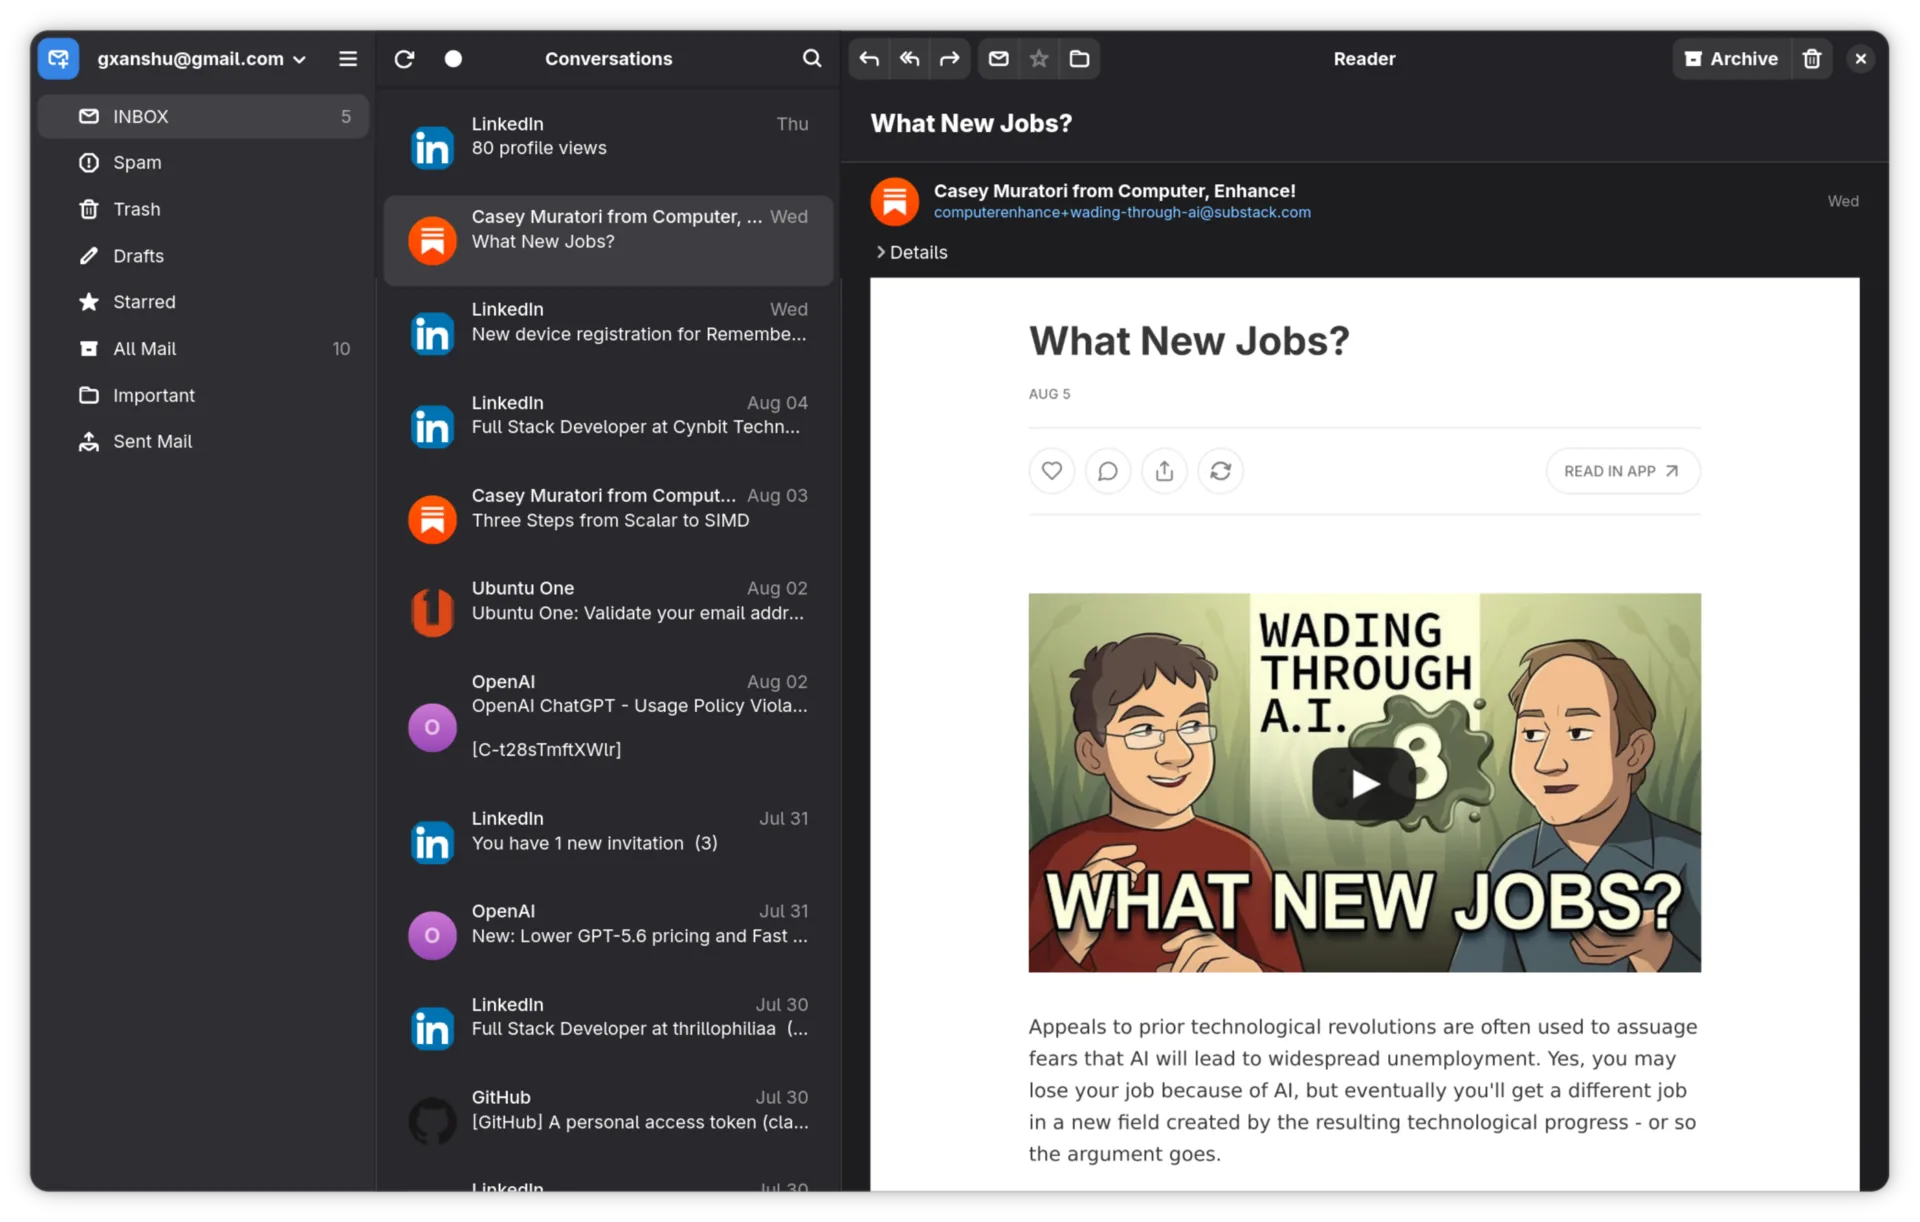
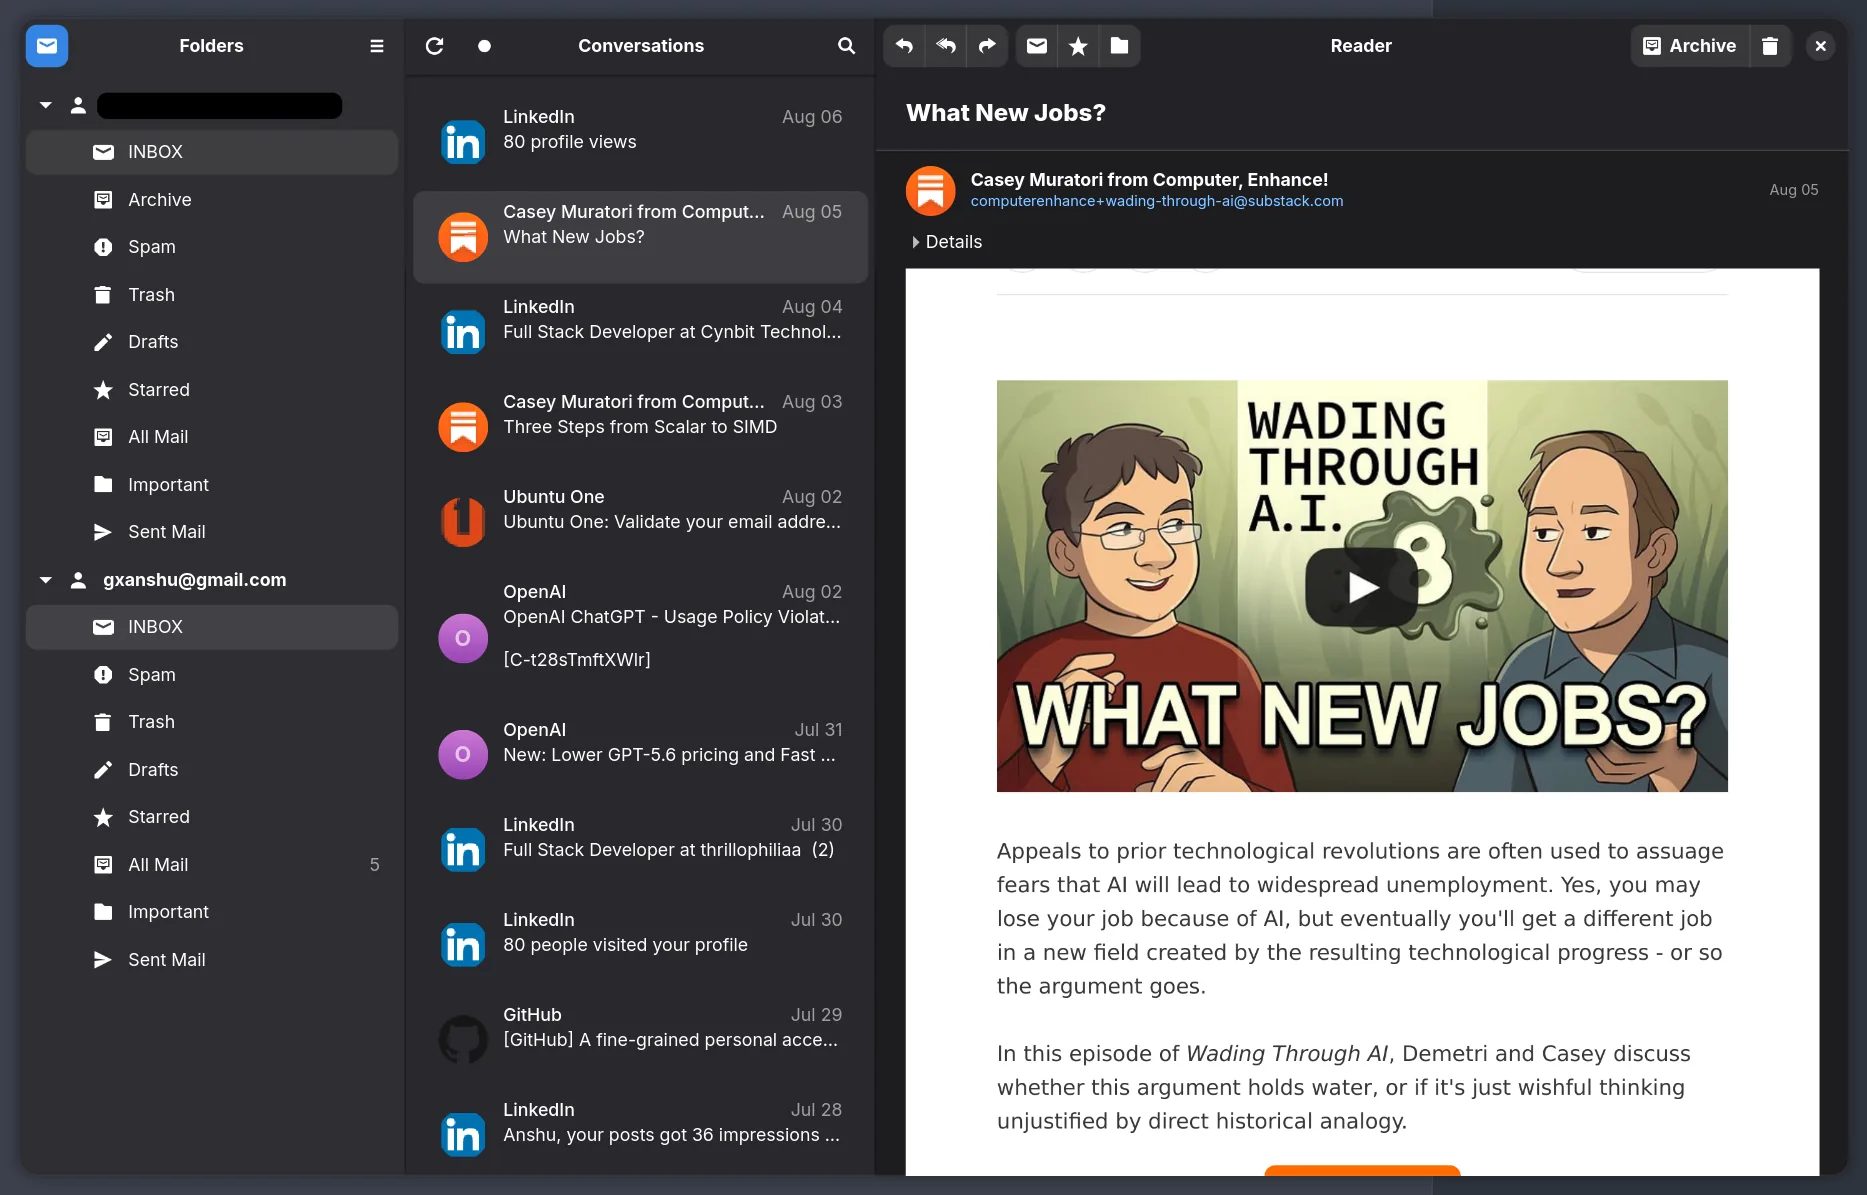
chore: update site

diff --git a/web/index.html b/web/index.html
@@ -5,12 +5,12 @@
 <meta name="viewport" content="width=device-width, initial-scale=1">
 
 <title>Postcard - a modern email client for GNOME</title>
-<meta name="description" content="Postcard is a modern email client for GNOME. GTK 4, libadwaita, IMAP/SMTP and GNOME Online Accounts, offline search, and a three-pane inbox. Install the Flatpak in one click.">
-<meta name="keywords" content="email client for GNOME, best email client for GNOME, GNOME mail app, GTK4 email client, libadwaita mail, Linux IMAP client, Flatpak email client">
+<meta name="description" content="Postcard is a modern email client for GNOME. GTK 4, libadwaita, IMAP/SMTP and GNOME Online Accounts, a unified inbox, offline search, and one click unsubscribe. Install the Flatpak in one click.">
+<meta name="keywords" content="email client for GNOME, best email client for GNOME, GNOME mail app, GTK4 email client, libadwaita mail, Linux IMAP client, Flatpak email client, unified inbox, one click unsubscribe">
 <link rel="canonical" href="https://postcard.gxanshu.in/">
 
 <meta property="og:title" content="Postcard — a modern email client for GNOME">
-<meta property="og:description" content="A native GNOME mail app on GTK 4 and libadwaita. Conversations, offline search, GNOME Online Accounts. Free and GPL-3.0.">
+<meta property="og:description" content="A native GNOME mail app on GTK 4 and libadwaita. A unified inbox, conversations, offline search, GNOME Online Accounts. Free and GPL-3.0.">
 <meta property="og:type" content="website">
 <meta property="og:url" content="https://postcard.gxanshu.in/">
 <meta property="og:image" content="https://postcard.gxanshu.in/img/og.png">
@@ -18,7 +18,7 @@
 <meta property="og:image:height" content="630">
 <meta name="twitter:card" content="summary_large_image">
 <meta name="twitter:title" content="Postcard — a modern email client for GNOME">
-<meta name="twitter:description" content="A native GNOME mail app on GTK 4 and libadwaita. Conversations, offline search, GNOME Online Accounts. Free and GPL-3.0.">
+<meta name="twitter:description" content="A native GNOME mail app on GTK 4 and libadwaita. A unified inbox, conversations, offline search, GNOME Online Accounts. Free and GPL-3.0.">
 <meta name="twitter:image" content="https://postcard.gxanshu.in/img/og.png">
 
 <link rel="icon" href="icon.png">
@@ -160,7 +160,7 @@ p{text-wrap:pretty;}
 .btn-block{display:block;width:100%;text-align:center;padding:13px 20px;border-radius:11px;}
 
 /* Hero */
-.hero{padding:76px 24px 0;}
+.hero{padding:96px 24px 0;}
 .hero-row{display:flex;flex-wrap:wrap;gap:48px;align-items:center;}
 .hero-copy{flex:1 1 480px;min-width:280px;}
 .hero h1{margin:0;font-size:clamp(36px,5.6vw,64px);line-height:1.03;letter-spacing:-.035em;text-wrap:balance;}
@@ -298,12 +298,13 @@ pre{
 }
 </style>
 
-<script type="application/ld+json">{"@context":"https://schema.org","@type":"SoftwareApplication","name":"Postcard","applicationCategory":"CommunicationApplication","applicationSubCategory":"Email Client","operatingSystem":"Linux, GNOME","softwareVersion":"__VERSION__","url":"https://postcard.gxanshu.in/","license":"https://www.gnu.org/licenses/gpl-3.0.html","description":"A modern email client for GNOME, built on GTK 4, libadwaita and Python. IMAP/SMTP, GNOME Online Accounts, offline full-text search.","downloadUrl":"https://github.com/gxanshu/postcard/releases/latest/download/postcard.flatpakref","screenshot":"https://postcard.gxanshu.in/img/og.png","author":{"@type":"Person","name":"Anshu","url":"https://github.com/gxanshu"},"offers":{"@type":"Offer","price":"0","priceCurrency":"USD"}}</script>
+<script type="application/ld+json">{"@context":"https://schema.org","@type":"SoftwareApplication","name":"Postcard","applicationCategory":"CommunicationApplication","applicationSubCategory":"Email Client","operatingSystem":"Linux, GNOME","softwareVersion":"__VERSION__","url":"https://postcard.gxanshu.in/","license":"https://www.gnu.org/licenses/gpl-3.0.html","description":"A modern email client for GNOME, built on GTK 4, libadwaita and Python. IMAP/SMTP, GNOME Online Accounts, a unified inbox, offline full-text search and one click unsubscribe.","downloadUrl":"https://github.com/gxanshu/postcard/releases/latest/download/postcard.flatpakref","screenshot":"https://postcard.gxanshu.in/img/og.png","author":{"@type":"Person","name":"Anshu","url":"https://github.com/gxanshu"},"offers":{"@type":"Offer","price":"0","priceCurrency":"USD"}}</script>
 <script type="application/ld+json">{"@context":"https://schema.org","@type":"FAQPage","mainEntity":[
 {"@type":"Question","name":"Is Postcard on Flathub?","acceptedAnswer":{"@type":"Answer","text":"No. It installs as a Flatpak from the project's GitHub releases, and flatpak update keeps it current like any other app."}},
 {"@type":"Question","name":"Does it work outside GNOME?","acceptedAnswer":{"@type":"Answer","text":"Yes. KDE, Xfce, anywhere Flatpak runs. GNOME just fits best, because Online Accounts, notifications, the keyring and the dark style all come for free."}},
 {"@type":"Question","name":"Which mail providers work?","acceptedAnswer":{"@type":"Answer","text":"Anything with IMAP and SMTP. Gmail, Fastmail, Zoho, Proton Mail Bridge, a mailbox on your own server. A Google account already in GNOME Settings is picked up without a password."}},
 {"@type":"Question","name":"What does it cost?","acceptedAnswer":{"@type":"Answer","text":"Nothing. GPL-3.0-or-later, no account to make, no telemetry. Your mail stays on your machine and your server."}},
+{"@type":"Question","name":"Can it start with my session?","acceptedAnswer":{"@type":"Answer","text":"Yes. Turn on Keep running in the background and Start at Login in Preferences. Postcard starts with no window, checks for mail on your sync interval and notifies you when something arrives."}},
 {"@type":"Question","name":"Is it ready for my main inbox?","acceptedAnswer":{"@type":"Answer","text":"I read my own mail in it every day, but it is still early. Keep your old client around for a week or two and file anything that breaks."}}]}</script>
 </head>
 
@@ -331,7 +332,6 @@ pre{
 <section class="hero wrap">
   <div class="hero-row">
     <div class="hero-copy">
-      <p class="eyebrow" style="margin-bottom:22px;">GTK 4 · libadwaita · Flatpak</p>
       <h1>A modern email client for GNOME.</h1>
       <p class="lede">Folders on the left, conversations in the middle, the message on the right. The layout you already know, rebuilt on GTK 4 and libadwaita. Nothing new to learn.</p>
       <div class="hero-actions">
@@ -348,15 +348,19 @@ pre{
 
 <section class="shot-band">
   <div class="inner">
-    <img class="shot" src="img/main-window.webp" width="1920" height="1222" fetchpriority="high" alt="Postcard on GNOME showing the three pane layout: folder list, conversation list and the HTML reader">
+    <img class="shot" src="img/main-window.webp" width="1867" height="1195" fetchpriority="high" alt="Postcard on GNOME showing every account in one sidebar, the conversation list and the HTML reader">
   </div>
 </section>
 
 <section id="features" class="features">
   <div class="inner">
-    <p class="eyebrow">What you get</p>
+    <p class="eyebrow">Features</p>
     <h2>Everything a mail client should do. Nothing it shouldn't.</h2>
     <div class="grid">
+      <div class="cell">
+        <h3>One inbox, every account</h3>
+        <p>All your addresses live in the same sidebar, folders sitting under the account they belong to. No switcher to remember, no going back and forth to find a mail.</p>
+      </div>
       <div class="cell">
         <h3>Threaded conversations</h3>
         <p>Replies stack into one thread. Archive, trash, move, and undo it when you got the wrong one.</p>
@@ -371,7 +375,7 @@ pre{
       </div>
       <div class="cell">
         <h3>Any IMAP or SMTP account</h3>
-        <p>Gmail, Fastmail, Proton Bridge, your own server. Add as many as you want. Passwords go in the system keyring.</p>
+        <p>Gmail, Fastmail, Proton Bridge, your own server. Add as many as you want. Host and port are filled in from your address for the providers people actually use, and passwords go in the system keyring.</p>
       </div>
       <div class="cell">
         <h3>Trackers stay blocked</h3>
@@ -379,7 +383,19 @@ pre{
       </div>
       <div class="cell">
         <h3>Drafts that don't vanish</h3>
-        <p>Reply, forward, Cc and Bcc, signatures, rich text. An Outbox holds the message until it really goes.</p>
+        <p>Reply, forward, Cc and Bcc, signatures, rich text. Pick which of your addresses it goes out from, let addresses you have written to before autocomplete, and an Outbox holds the message until it really goes.</p>
+      </div>
+      <div class="cell">
+        <h3>Leave a mailing list</h3>
+        <p>Lists get a banner with an Unsubscribe button. Where the list supports it, Postcard sends the request itself, after telling you which host it is about to talk to.</p>
+      </div>
+      <div class="cell">
+        <h3>Waits in the background</h3>
+        <p>Postcard can start hidden at login, check on your sync interval and notify you when mail lands. The desktop portal writes the autostart entry, so there is no file to edit.</p>
+      </div>
+      <div class="cell">
+        <h3>Acts like a desktop app</h3>
+        <p>A <span class="mono" style="font-size:13.5px;">mailto:</span> link opens the composer with the fields already filled. Attachments open in their default app, dates read like "2h ago", and senders get an avatar.</p>
       </div>
     </div>
   </div>
@@ -387,7 +403,7 @@ pre{
 
 <section id="look" class="night">
   <div class="inner">
-    <p class="eyebrow">A closer look</p>
+    <p class="eyebrow">Screenshots</p>
     <h2>Built to the GNOME HIG.</h2>
     <p class="lede">Adaptive layouts, boxed lists, real dialogs, and the system dark style everywhere. It fits your desktop because it is built the same way.</p>
     <div class="figs">
@@ -405,6 +421,10 @@ pre{
           <figcaption><strong>Preferences.</strong> A short list of switches. Notifications, remote images, sync interval.</figcaption>
         </figure>
       </div>
+      <figure style="flex:1 1 100%;">
+        <img src="img/mailing-list-unsubscribe.webp" width="1867" height="1188" loading="lazy" decoding="async" alt="The Postcard reader showing a mailing list banner with an Unsubscribe button, and the dialog naming the host the request goes to">
+        <figcaption><strong>One click unsubscribe.</strong> A newsletter gets a banner across the top of the message. Press the button and Postcard says which host it is about to ask, then asks for you.</figcaption>
+      </figure>
     </div>
   </div>
 </section>
@@ -460,7 +480,7 @@ pre{
 <section class="talk">
   <div class="inner split">
     <div class="split-main">
-      <p class="eyebrow">Straight talk</p>
+      <p class="eyebrow">Before you install</p>
       <h2>Written in the open, awkward parts included.</h2>
       <p>Postcard is under heavy development. It has bugs and rough edges. A bug report is the fastest way to get them fixed.</p>
       <p>AI tools help me type this code. That is written in the README rather than hidden away. The architecture, the review and the responsibility are mine, and every line was read before it shipped. Read the source and judge for yourself.</p>
@@ -504,6 +524,10 @@ pre{
       <div>
         <h3>What does it cost?</h3>
         <p>Nothing. GPL-3.0-or-later, no account to make, no telemetry. Your mail stays on your machine and your server.</p>
+      </div>
+      <div>
+        <h3>Can it start with my session?</h3>
+        <p>Yes. Turn on <strong>Keep running in the background</strong> and <strong>Start at Login</strong> in Preferences. Postcard comes up with no window, checks on your sync interval, and notifies you when mail arrives. Click the notification to open it.</p>
       </div>
       <div>
         <h3>Is it ready for my main inbox?</h3>
